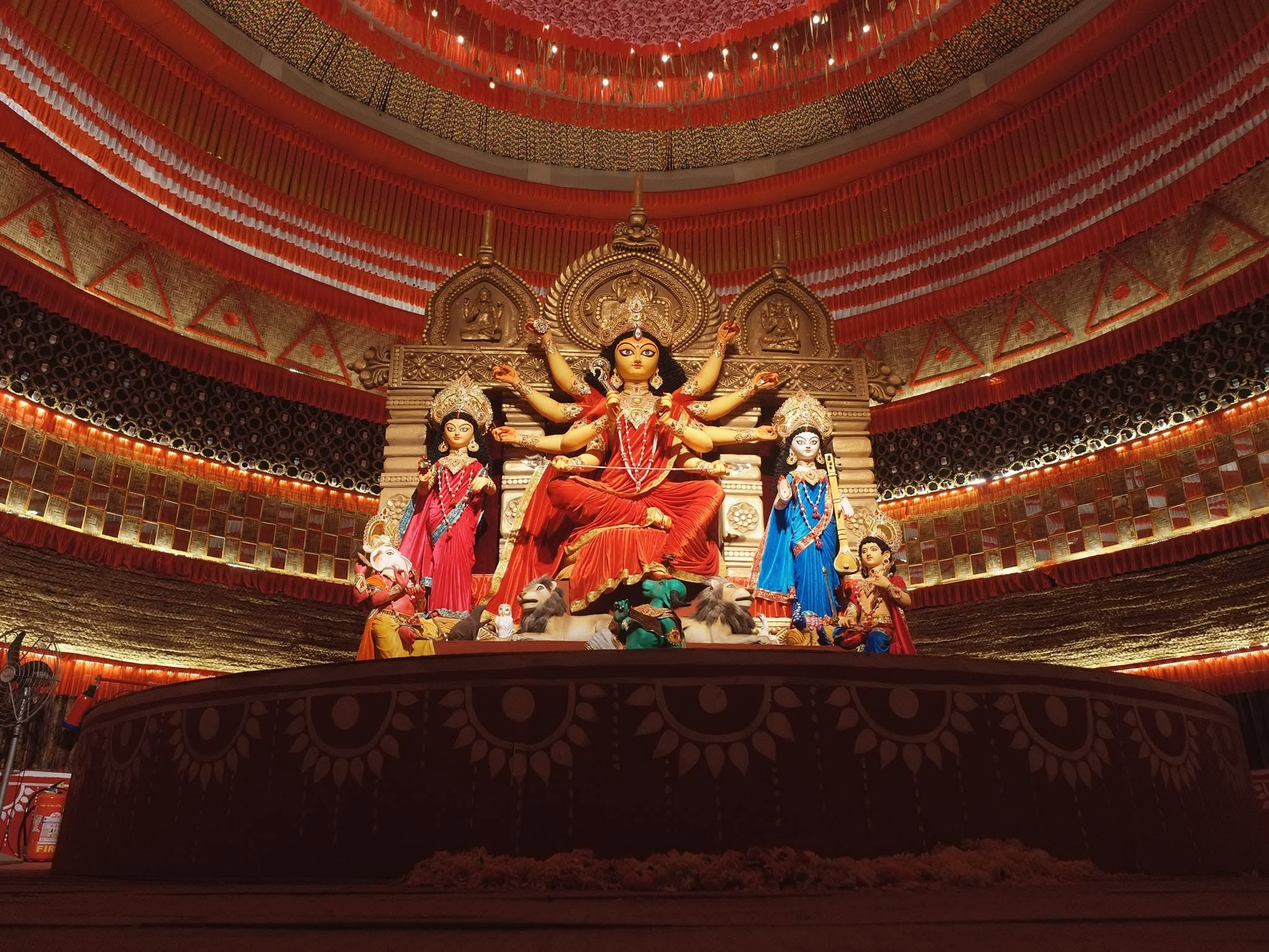
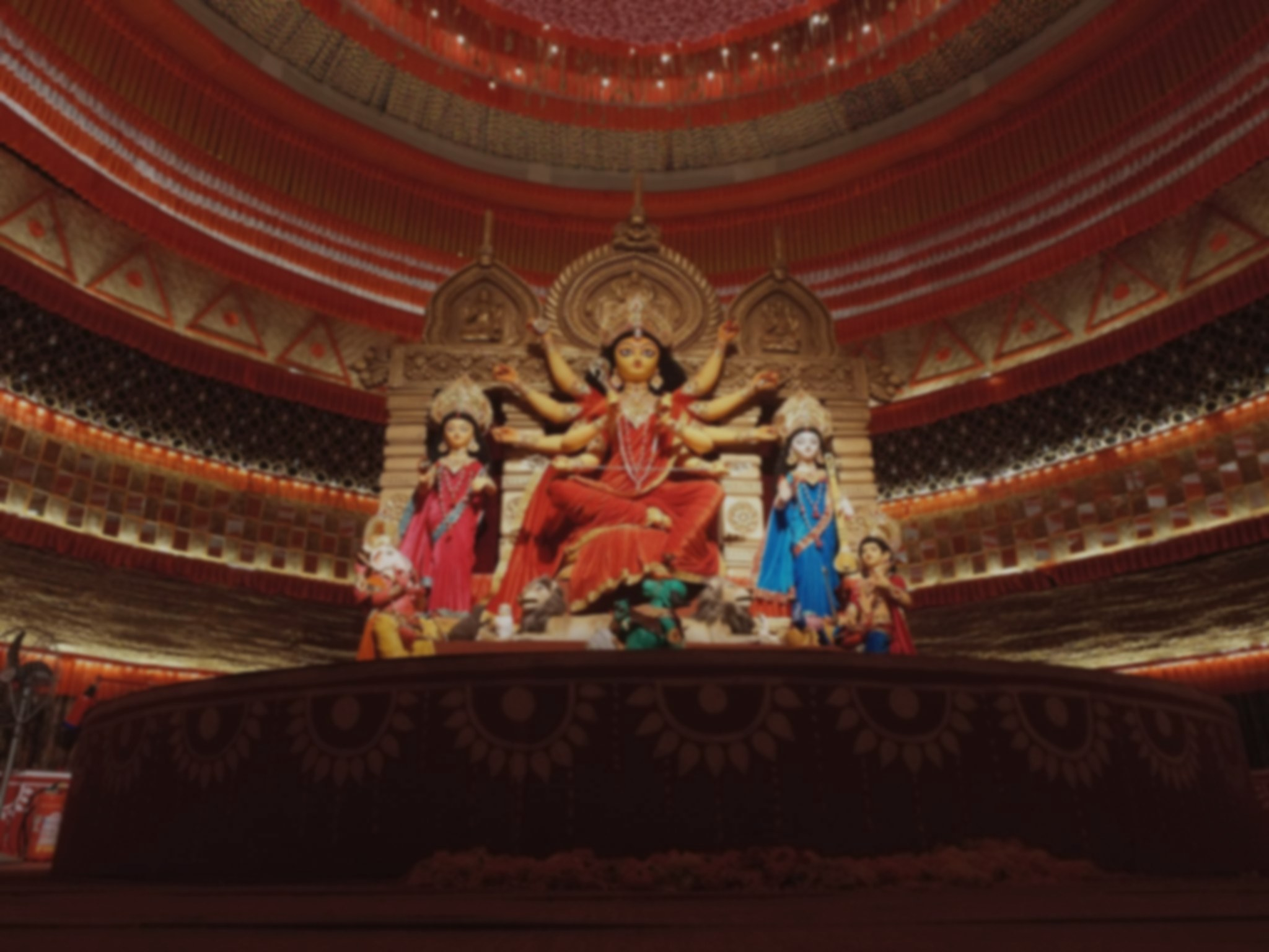
feat: soft pandal backdrop hero without face panel
Landing hero uses the shared pandal photo as a soft full-bleed backdrop with centered text.

diff --git a/src/components/Hero.tsx b/src/components/Hero.tsx
@@ -16,122 +16,75 @@ export default function Hero() {
       className="relative flex min-h-[100svh] items-center overflow-hidden"
       aria-labelledby="hero-heading"
     >
-      {/* Soft full-bleed Maa Durga backdrop */}
+      {/* Soft full-bleed backdrop — the pandal photo you shared */}
       <div className="absolute inset-0">
         <Image
           src="/brand/maa-durga-hero.jpg"
           alt=""
           fill
           priority
-          quality={85}
+          quality={90}
           sizes="100vw"
-          className="object-cover object-[center_30%] scale-[1.02]"
+          className="object-cover object-[center_28%] scale-[1.03]"
         />
+        {/* Soft overlays so Maa stays visible but text stays readable */}
         <div
-          className="absolute inset-0 bg-gradient-to-b from-navy/75 via-navy/50 to-navy/90"
+          className="absolute inset-0 bg-navy/45"
           aria-hidden
         />
         <div
-          className="absolute inset-0 bg-gradient-to-r from-navy/65 via-navy/25 to-crimson/25"
+          className="absolute inset-0 bg-gradient-to-b from-navy/55 via-navy/30 to-navy/80"
           aria-hidden
         />
         <div
-          className="absolute inset-0 bg-[radial-gradient(ellipse_at_center,transparent_10%,rgba(11,22,48,0.55)_100%)]"
+          className="absolute inset-0 bg-gradient-to-r from-navy/50 via-transparent to-navy/35"
           aria-hidden
         />
         <div
-          className="absolute inset-x-0 bottom-0 h-36 bg-gradient-to-t from-gold/10 to-transparent"
+          className="absolute inset-x-0 bottom-0 h-40 bg-gradient-to-t from-navy to-transparent"
           aria-hidden
         />
       </div>
 
-      <svg
-        className="pointer-events-none absolute left-4 top-24 opacity-20 sm:left-10 md:left-14"
-        width="160"
-        height="160"
-        viewBox="0 0 220 220"
-        fill="none"
-        aria-hidden
-      >
-        <circle cx="110" cy="110" r="100" stroke="#C9A227" strokeWidth="1" />
-        <circle cx="110" cy="110" r="70" stroke="#C9A227" strokeWidth="1" />
-      </svg>
-
       <div className="container-premium relative z-10 section-pad pt-28 md:pt-32">
-        <div className="mx-auto grid max-w-6xl items-center gap-10 lg:grid-cols-[1.05fr_0.95fr] lg:gap-14">
-          <div className="text-center lg:text-left fade-up">
-            <p className="font-bengali mb-4 text-3xl font-semibold text-gold drop-shadow sm:text-4xl md:text-[2.75rem]">
-              {site.heroGreetingBn}
-            </p>
-            <div className="mb-6 inline-flex items-center rounded-full border border-gold/80 bg-navy/35 px-5 py-1.5 text-[11px] font-semibold uppercase tracking-[0.16em] text-gold backdrop-blur-[2px] md:text-xs">
-              {badge}
-            </div>
-            <h1
-              id="hero-heading"
-              className="font-display text-balance text-3xl font-semibold leading-[1.12] text-cream drop-shadow-md sm:text-4xl md:text-5xl lg:text-[3.4rem]"
-            >
-              {site.committeeName}
-            </h1>
-            <p className="mt-5 text-base font-medium tracking-wide text-gold sm:text-lg md:text-[1.15rem]">
-              Organised by {site.organiser}
-            </p>
-            <p className="mt-3 text-sm tracking-wide text-[#E2D8CE] sm:text-base">
-              {site.venue} · {site.addressLine} · PIN {site.pin}
-            </p>
-            {showingFallback && (
-              <p className="mt-4 text-xs text-cream/70">
-                Showing {year} details — {targetYear} schedule will appear when
-                published.
-              </p>
-            )}
-            <div className="mt-10 flex flex-wrap items-center justify-center gap-4 lg:justify-start">
-              <a
-                href="#puja-days"
-                className="focus-ring inline-flex items-center rounded-sm bg-crimson px-8 py-3.5 text-xs font-semibold uppercase tracking-[0.18em] text-cream shadow-lg shadow-black/30 transition hover:bg-crimson-deep"
-              >
-                Puja Schedule
-              </a>
-              <a
-                href="#contact"
-                className="focus-ring inline-flex items-center rounded-sm border border-gold bg-navy/30 px-8 py-3.5 text-xs font-semibold uppercase tracking-[0.18em] text-gold transition hover:bg-gold/15"
-              >
-                Get in Touch
-              </a>
-            </div>
+        <div className="mx-auto max-w-3xl text-center fade-up">
+          <p className="font-bengali mb-4 text-3xl font-semibold text-gold drop-shadow-md sm:text-4xl md:text-[2.75rem]">
+            {site.heroGreetingBn}
+          </p>
+          <div className="mb-6 inline-flex items-center rounded-full border border-gold/80 bg-navy/40 px-5 py-1.5 text-[11px] font-semibold uppercase tracking-[0.16em] text-gold backdrop-blur-sm md:text-xs">
+            {badge}
           </div>
-
-          {/* Crisp high-quality right panel — no haze on the photo */}
-          <div className="relative mx-auto w-full max-w-lg fade-up lg:max-w-none">
-            <div
-              className="pointer-events-none absolute -inset-2 rounded-[1.35rem] bg-gradient-to-br from-gold/60 via-gold/20 to-crimson/30 opacity-80"
-              aria-hidden
-            />
-            <figure className="relative overflow-hidden rounded-[1rem] border-2 border-gold/70 bg-navy shadow-[0_28px_64px_rgba(0,0,0,0.5)]">
-              <div className="relative aspect-[4/5] w-full">
-                <Image
-                  src="/brand/maa-durga-face.png"
-                  alt="Close portrait of Maa Durga’s face from our Sealdah pandal"
-                  fill
-                  priority
-                  quality={100}
-                  unoptimized
-                  sizes="(max-width: 1024px) 92vw, 440px"
-                  className="object-cover object-[center_35%]"
-                />
-                <div
-                  className="absolute inset-x-0 bottom-0 bg-gradient-to-t from-navy/45 via-transparent to-transparent px-5 pb-5 pt-16"
-                  aria-hidden
-                />
-              </div>
-              <figcaption className="absolute inset-x-0 bottom-0 px-5 pb-5 text-center">
-                <p className="font-bengali text-lg font-semibold text-gold drop-shadow">
-                  জয় মা দুর্গা
-                </p>
-                <p className="mt-1 text-[11px] uppercase tracking-[0.18em] text-cream/90">
-                  Our pandal · Sealdah
-                </p>
-              </figcaption>
-            </figure>
+          <h1
+            id="hero-heading"
+            className="font-display text-balance text-3xl font-semibold leading-[1.12] text-cream drop-shadow-md sm:text-4xl md:text-5xl lg:text-[3.25rem]"
+          >
+            {site.committeeName}
+          </h1>
+          <p className="mt-5 text-base font-medium tracking-wide text-gold sm:text-lg md:text-[1.15rem]">
+            Organised by {site.organiser}
+          </p>
+          <p className="mt-3 text-sm tracking-wide text-[#E2D8CE] sm:text-base">
+            {site.venue} · {site.addressLine} · PIN {site.pin}
+          </p>
+          {showingFallback && (
+            <p className="mt-4 text-xs text-cream/70">
+              Showing {year} details — {targetYear} schedule will appear when
+              published.
+            </p>
+          )}
+          <div className="mt-10 flex flex-wrap items-center justify-center gap-4">
+            <a
+              href="#puja-days"
+              className="focus-ring inline-flex items-center rounded-sm bg-crimson px-8 py-3.5 text-xs font-semibold uppercase tracking-[0.18em] text-cream shadow-lg shadow-black/30 transition hover:bg-crimson-deep"
+            >
+              Puja Schedule
+            </a>
+            <a
+              href="#contact"
+              className="focus-ring inline-flex items-center rounded-sm border border-gold bg-navy/40 px-8 py-3.5 text-xs font-semibold uppercase tracking-[0.18em] text-gold backdrop-blur-sm transition hover:bg-gold/15"
+            >
+              Get in Touch
+            </a>
           </div>
         </div>
       </div>
